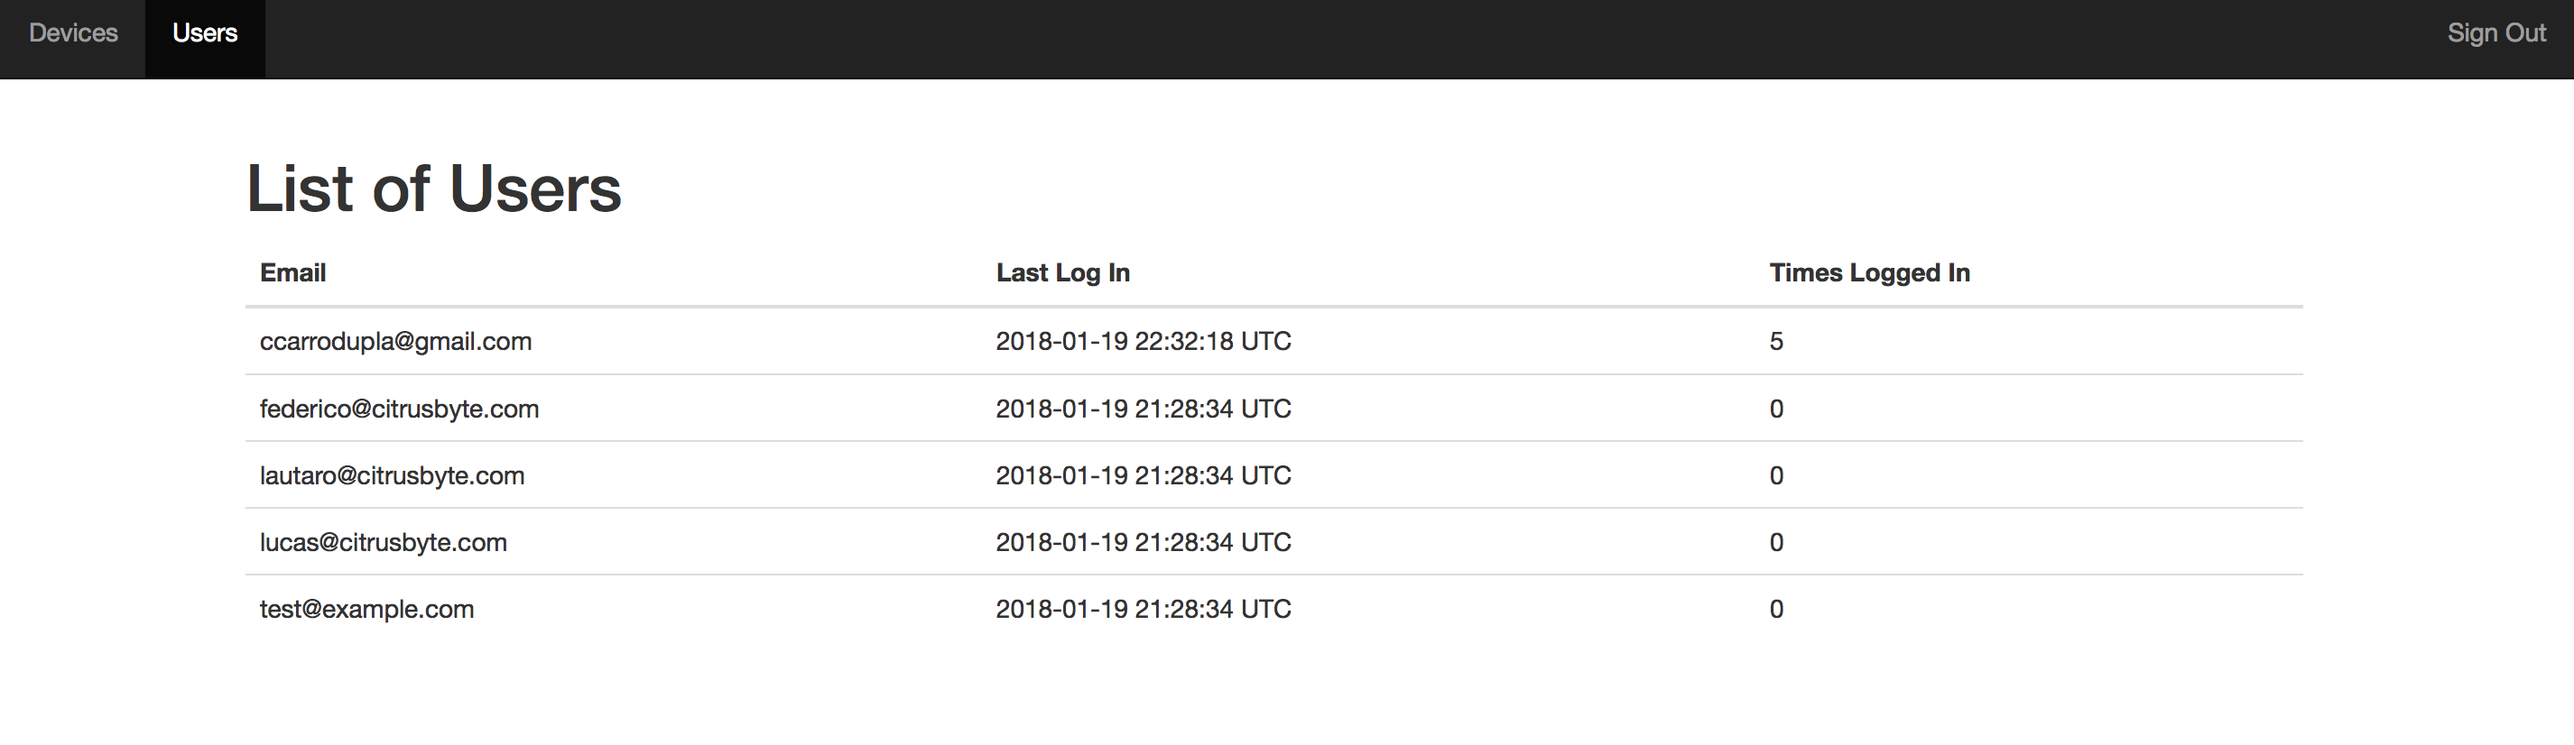
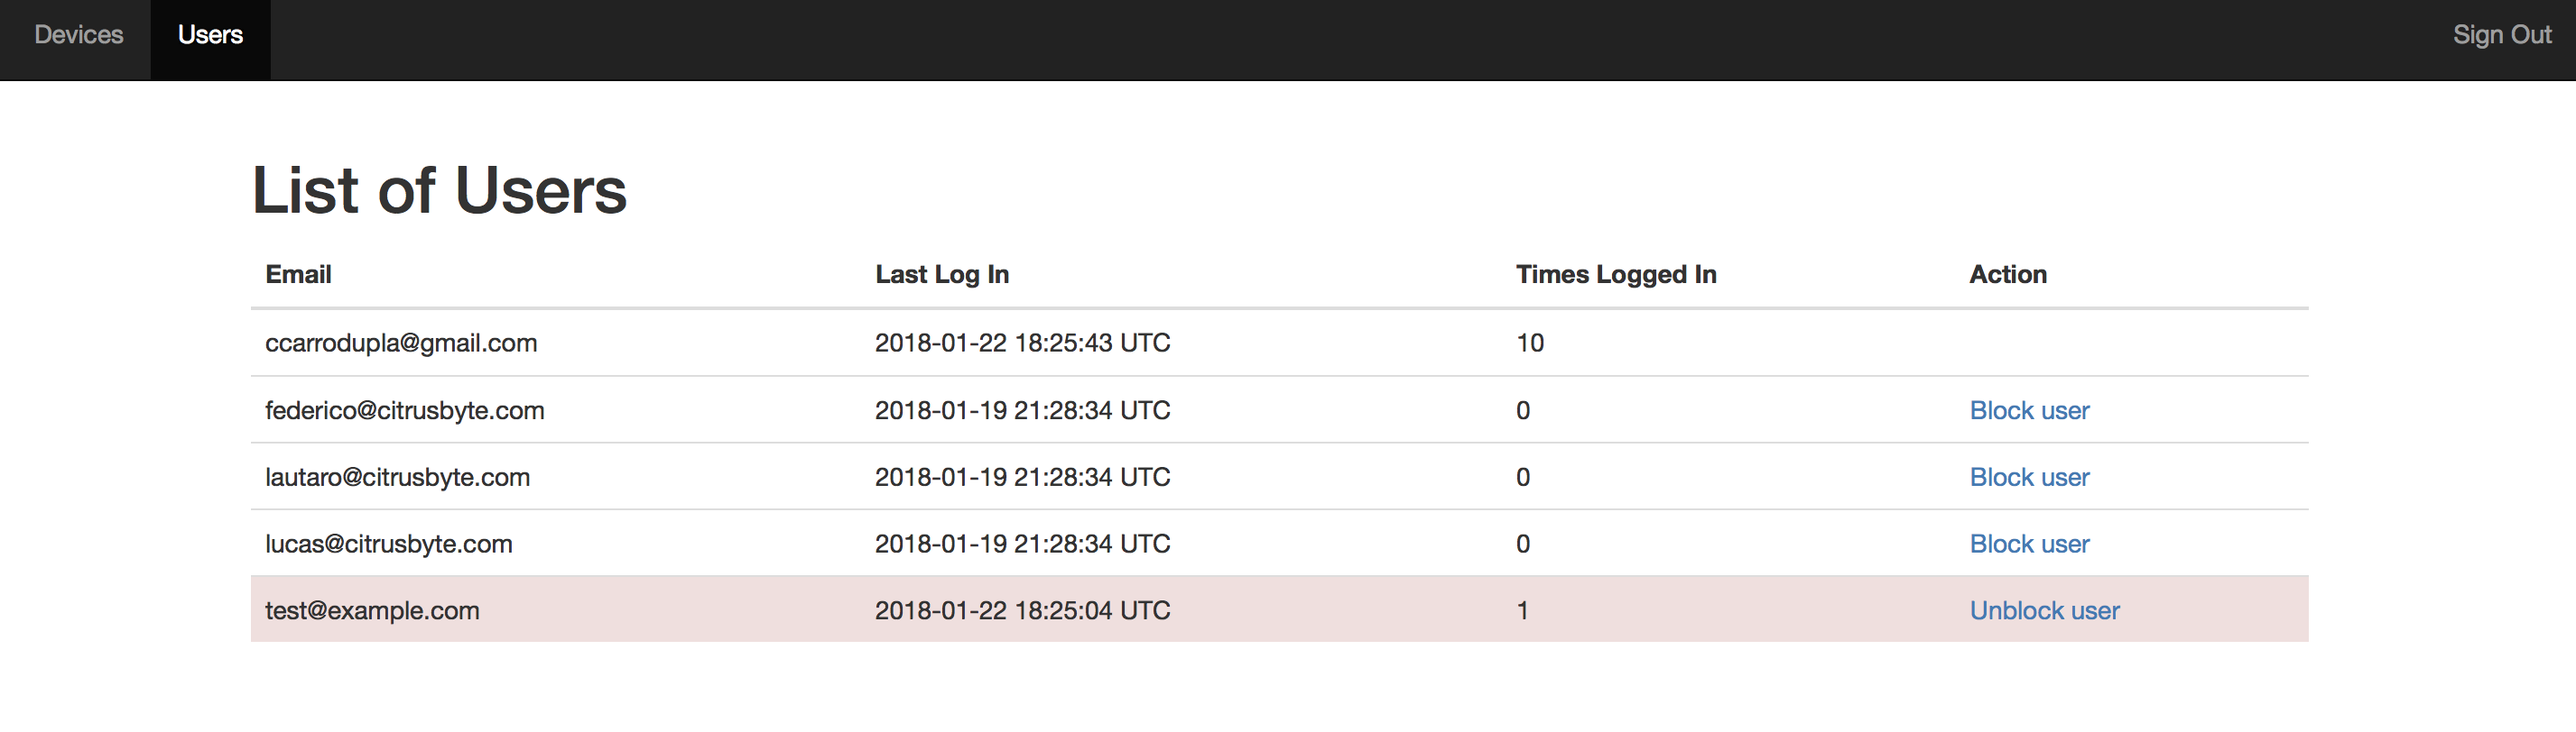
Adding the ability to disable users

diff --git a/db/schema.rb b/db/schema.rb
@@ -11,7 +11,7 @@
 #
 # It's strongly recommended that you check this file into your version control system.
 
-ActiveRecord::Schema.define(version: 20180119202249) do
+ActiveRecord::Schema.define(version: 20180122181232) do
 
   # These are extensions that must be enabled in order to support this database
   enable_extension "plpgsql"
@@ -39,21 +39,23 @@ ActiveRecord::Schema.define(version: 20180119202249) do
   add_index "sensor_data", ["device_id"], name: "index_sensor_data_on_device_id", using: :btree
 
   create_table "users", force: :cascade do |t|
-    t.string   "email",                  default: "", null: false
-    t.string   "encrypted_password",     default: "", null: false
+    t.string   "email",                  default: "",   null: false
+    t.string   "encrypted_password",     default: "",   null: false
     t.string   "reset_password_token"
     t.datetime "reset_password_sent_at"
     t.datetime "remember_created_at"
-    t.integer  "sign_in_count",          default: 0,  null: false
+    t.integer  "sign_in_count",          default: 0,    null: false
     t.datetime "current_sign_in_at"
     t.datetime "last_sign_in_at"
     t.inet     "current_sign_in_ip"
     t.inet     "last_sign_in_ip"
-    t.datetime "created_at",                          null: false
-    t.datetime "updated_at",                          null: false
+    t.datetime "created_at",                            null: false
+    t.datetime "updated_at",                            null: false
+    t.boolean  "enabled",                default: true, null: false
   end
 
   add_index "users", ["email"], name: "index_users_on_email", unique: true, using: :btree
+  add_index "users", ["enabled"], name: "index_users_on_enabled", using: :btree
   add_index "users", ["reset_password_token"], name: "index_users_on_reset_password_token", unique: true, using: :btree
 
   add_foreign_key "sensor_data", "devices"

diff --git a/app/models/user.rb b/app/models/user.rb
@@ -4,4 +4,15 @@ class User < ActiveRecord::Base
   devise :database_authenticatable, # :registerable,
          :recoverable, #:rememberable,
          :trackable, :validatable
+
+  # Called by Devise to check if the user is enabled
+  def active_for_authentication?
+    super && self.enabled
+  end
+
+  # Called by Devise for the reason the user is not able to log in (disabled)
+  def inactive_message
+    enabled ? super : 'This user has been disabled, please contact another admin'
+  end
+
 end

diff --git a/config/routes.rb b/config/routes.rb
@@ -4,6 +4,7 @@ Rails.application.routes.draw do
 
   devise_for :users
   get 'dashboard/users' => 'dashboard#index_users'
+  get 'dashboard/toggle_user_login/:user_id' => 'dashboard#toggle_user_login', as: :toggle_user_login
 
   get 'dashboard/devices' => 'dashboard#index_devices'
   get 'dashboard/device/:id' => 'dashboard#show_device', as: :dashboard_device

diff --git a/app/controllers/dashboard_controller.rb b/app/controllers/dashboard_controller.rb
@@ -29,4 +29,12 @@ class DashboardController < ApplicationController
     @users = User.order(:email)
   end
 
+  def toggle_user_login
+    user = User.where(id: params[:user_id]).first
+    if user
+      user.update_columns(enabled: !user.enabled)
+      redirect_to :back
+    end
+  end
+
 end

diff --git a/db/migrate/20180122181232_add_enabled_to_users.rb b/db/migrate/20180122181232_add_enabled_to_users.rb
@@ -1,0 +1,6 @@
+class AddEnabledToUsers < ActiveRecord::Migration
+  def change
+    add_column :users, :enabled, :boolean, default: true, null: false
+    add_index :users, :enabled
+  end
+end

diff --git a/README.md b/README.md
@@ -4,6 +4,7 @@ Devices and Sensors Exercise
 Rails application.
 
 Ruby 2.4.0
+PostgreSQL (tested with PostgreSQL 9.6.1.1)
 
 Some seed data has been added (see `db/seeds.rb`)
 
